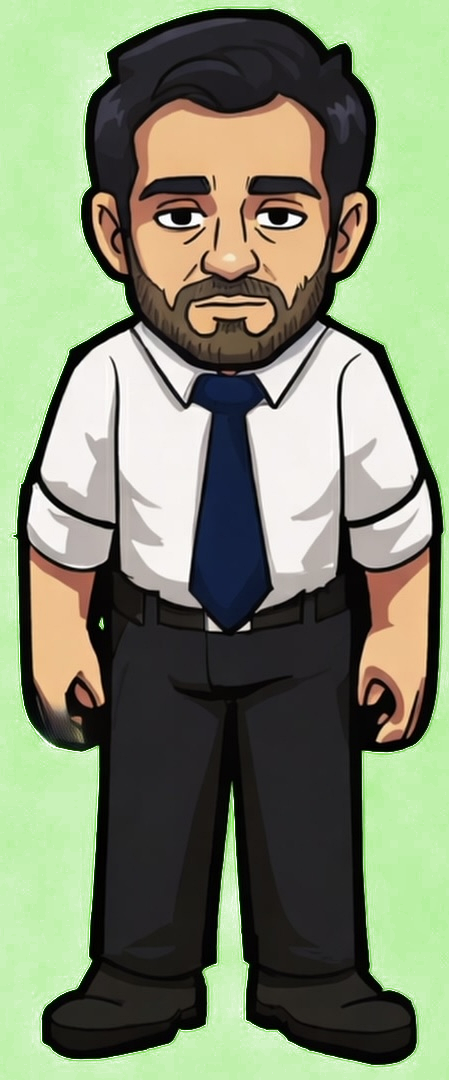
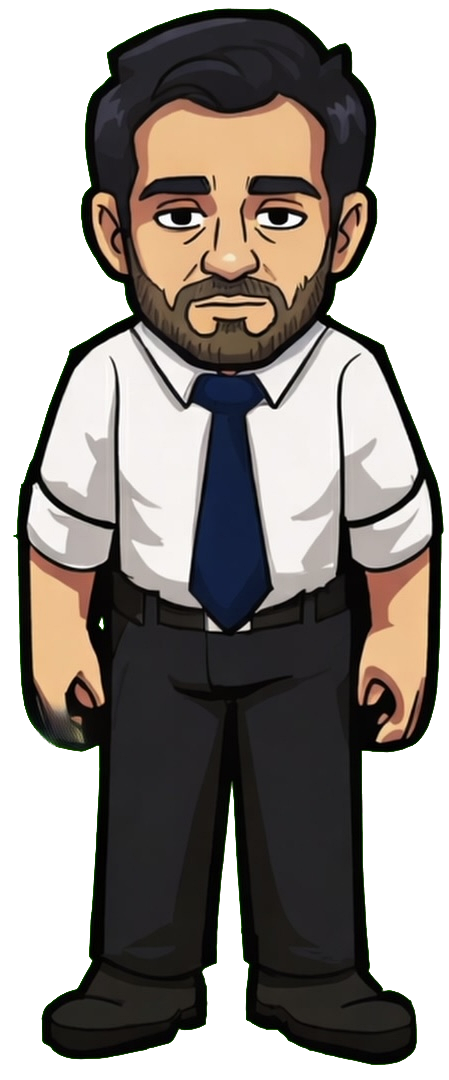
Fix idle green screen, hide Guibot during game, brighten tower with bigger floor labels

diff --git a/src/components/game/TowerProgress.tsx b/src/components/game/TowerProgress.tsx
@@ -24,7 +24,7 @@ export default function TowerProgress({ currentLevel, totalLevels, assets }: Pro
         boxSizing: 'border-box',
       }}
     >
-      {/* Tower background image — NO dark filter */}
+      {/* Tower background image — bright & luminous */}
       {towerImg && (
         <img
           src={towerImg.src}
@@ -35,10 +35,29 @@ export default function TowerProgress({ currentLevel, totalLevels, assets }: Pro
             width: '100%',
             height: '100%',
             objectFit: 'cover',
-            opacity: 0.85,
+            opacity: 1,
+            filter: 'brightness(1.35) saturate(1.15) contrast(1.05)',
           }}
         />
       )}
+      {/* Subtle teal glow overlay */}
+      <div
+        style={{
+          position: 'absolute',
+          inset: 0,
+          background: 'radial-gradient(ellipse at center, rgba(0,201,200,0.12) 0%, rgba(0,201,200,0) 70%)',
+          pointerEvents: 'none',
+        }}
+      />
+      {/* Left edge scanline effect */}
+      <div
+        style={{
+          position: 'absolute',
+          inset: 0,
+          background: 'linear-gradient(90deg, rgba(0,201,200,0.15) 0%, transparent 15%, transparent 85%, rgba(0,201,200,0.15) 100%)',
+          pointerEvents: 'none',
+        }}
+      />
 
       {/* Floor markers */}
       <div
@@ -60,26 +79,37 @@ export default function TowerProgress({ currentLevel, totalLevels, assets }: Pro
             >
               <div
                 style={{
-                  width: '90%',
-                  padding: '2px 4px',
+                  width: '92%',
+                  padding: isCurrent ? '3px 4px' : '2px 4px',
                   textAlign: 'center',
-                  fontSize: '10px',
+                  fontSize: isCurrent ? '15px' : '13px',
                   fontFamily: "'Orbitron', sans-serif",
-                  fontWeight: isCurrent ? 900 : 600,
-                  letterSpacing: '1px',
-                  borderRadius: '3px',
-                  color: isCurrent ? '#0A1520' : isCompleted ? '#FFFFFF' : '#D0E0F0',
-                  background: isCurrent
-                    ? '#00C9C8'
+                  fontWeight: 900,
+                  letterSpacing: '1.5px',
+                  borderRadius: '4px',
+                  color: isCurrent
+                    ? '#0A1520'
                     : isCompleted
-                    ? 'rgba(0,168,157,0.55)'
-                    : 'rgba(10,21,32,0.7)',
+                    ? '#FFFFFF'
+                    : '#FFFFFF',
+                  background: isCurrent
+                    ? '#00FFFC'
+                    : isCompleted
+                    ? 'rgba(0,168,157,0.75)'
+                    : 'rgba(10,21,32,0.85)',
+                  border: isCurrent
+                    ? '1px solid #FFFFFF'
+                    : isCompleted
+                    ? '1px solid rgba(0,201,200,0.5)'
+                    : '1px solid rgba(0,201,200,0.35)',
                   boxShadow: isCurrent
-                    ? '0 0 10px rgba(0,201,200,0.7), 0 0 4px rgba(0,201,200,0.4)'
-                    : 'none',
+                    ? '0 0 18px rgba(0,255,252,0.95), 0 0 8px rgba(0,255,252,0.7), inset 0 0 6px rgba(255,255,255,0.4)'
+                    : isCompleted
+                    ? '0 0 4px rgba(0,201,200,0.4)'
+                    : '0 1px 2px rgba(0,0,0,0.5)',
                   textShadow: isCurrent
-                    ? 'none'
-                    : '0 1px 3px rgba(0,0,0,0.9), 0 0 6px rgba(0,0,0,0.5)',
+                    ? '0 0 6px rgba(255,255,255,0.8)'
+                    : '0 1px 2px rgba(0,0,0,1), 0 0 8px rgba(0,201,200,0.6)',
                   transition: 'all 0.3s ease',
                 }}
               >

diff --git a/src/components/ui/GuibourChat.tsx b/src/components/ui/GuibourChat.tsx
@@ -1,7 +1,6 @@
 'use client';
 
 import { useState, useRef, useEffect, useCallback } from 'react';
-import { usePathname } from 'next/navigation';
 
 interface Message {
   role: 'user' | 'assistant';
@@ -18,9 +17,19 @@ const QUICK_TOPICS = [
 ];
 
 export default function GuibourChat() {
-  const pathname = usePathname();
+  const [gameActive, setGameActive] = useState(false);
   const [open, setOpen] = useState(false);
   const [showBubble, setShowBubble] = useState(false);
+
+  useEffect(() => {
+    const onChange = () => {
+      setGameActive(document.body.dataset.gameActive === 'true');
+    };
+    onChange();
+    const observer = new MutationObserver(onChange);
+    observer.observe(document.body, { attributes: true, attributeFilter: ['data-game-active'] });
+    return () => observer.disconnect();
+  }, []);
   const [messages, setMessages] = useState<Message[]>([
     { role: 'assistant', content: WELCOME },
   ]);
@@ -81,7 +90,8 @@ export default function GuibourChat() {
     return () => clearTimeout(timer);
   }, [open]);
 
-  // Guibot visible sur toutes les pages y compris l'accueil
+  // Guibot masqué pendant le jeu
+  if (gameActive) return null;
 
   return (
     <>

diff --git a/src/app/page.tsx b/src/app/page.tsx
@@ -208,6 +208,19 @@ export default function Home() {
     }
   }, []);
 
+  // Masquer Guibot pendant le jeu
+  useEffect(() => {
+    if (typeof document === 'undefined') return;
+    if (showGame || showCharacterSelect || showLoading) {
+      document.body.dataset.gameActive = 'true';
+    } else {
+      delete document.body.dataset.gameActive;
+    }
+    return () => {
+      delete document.body.dataset.gameActive;
+    };
+  }, [showGame, showCharacterSelect, showLoading]);
+
   const handleLoadingComplete = useCallback(() => {
     setShowLoading(false);
     setLoadingDone(true);
